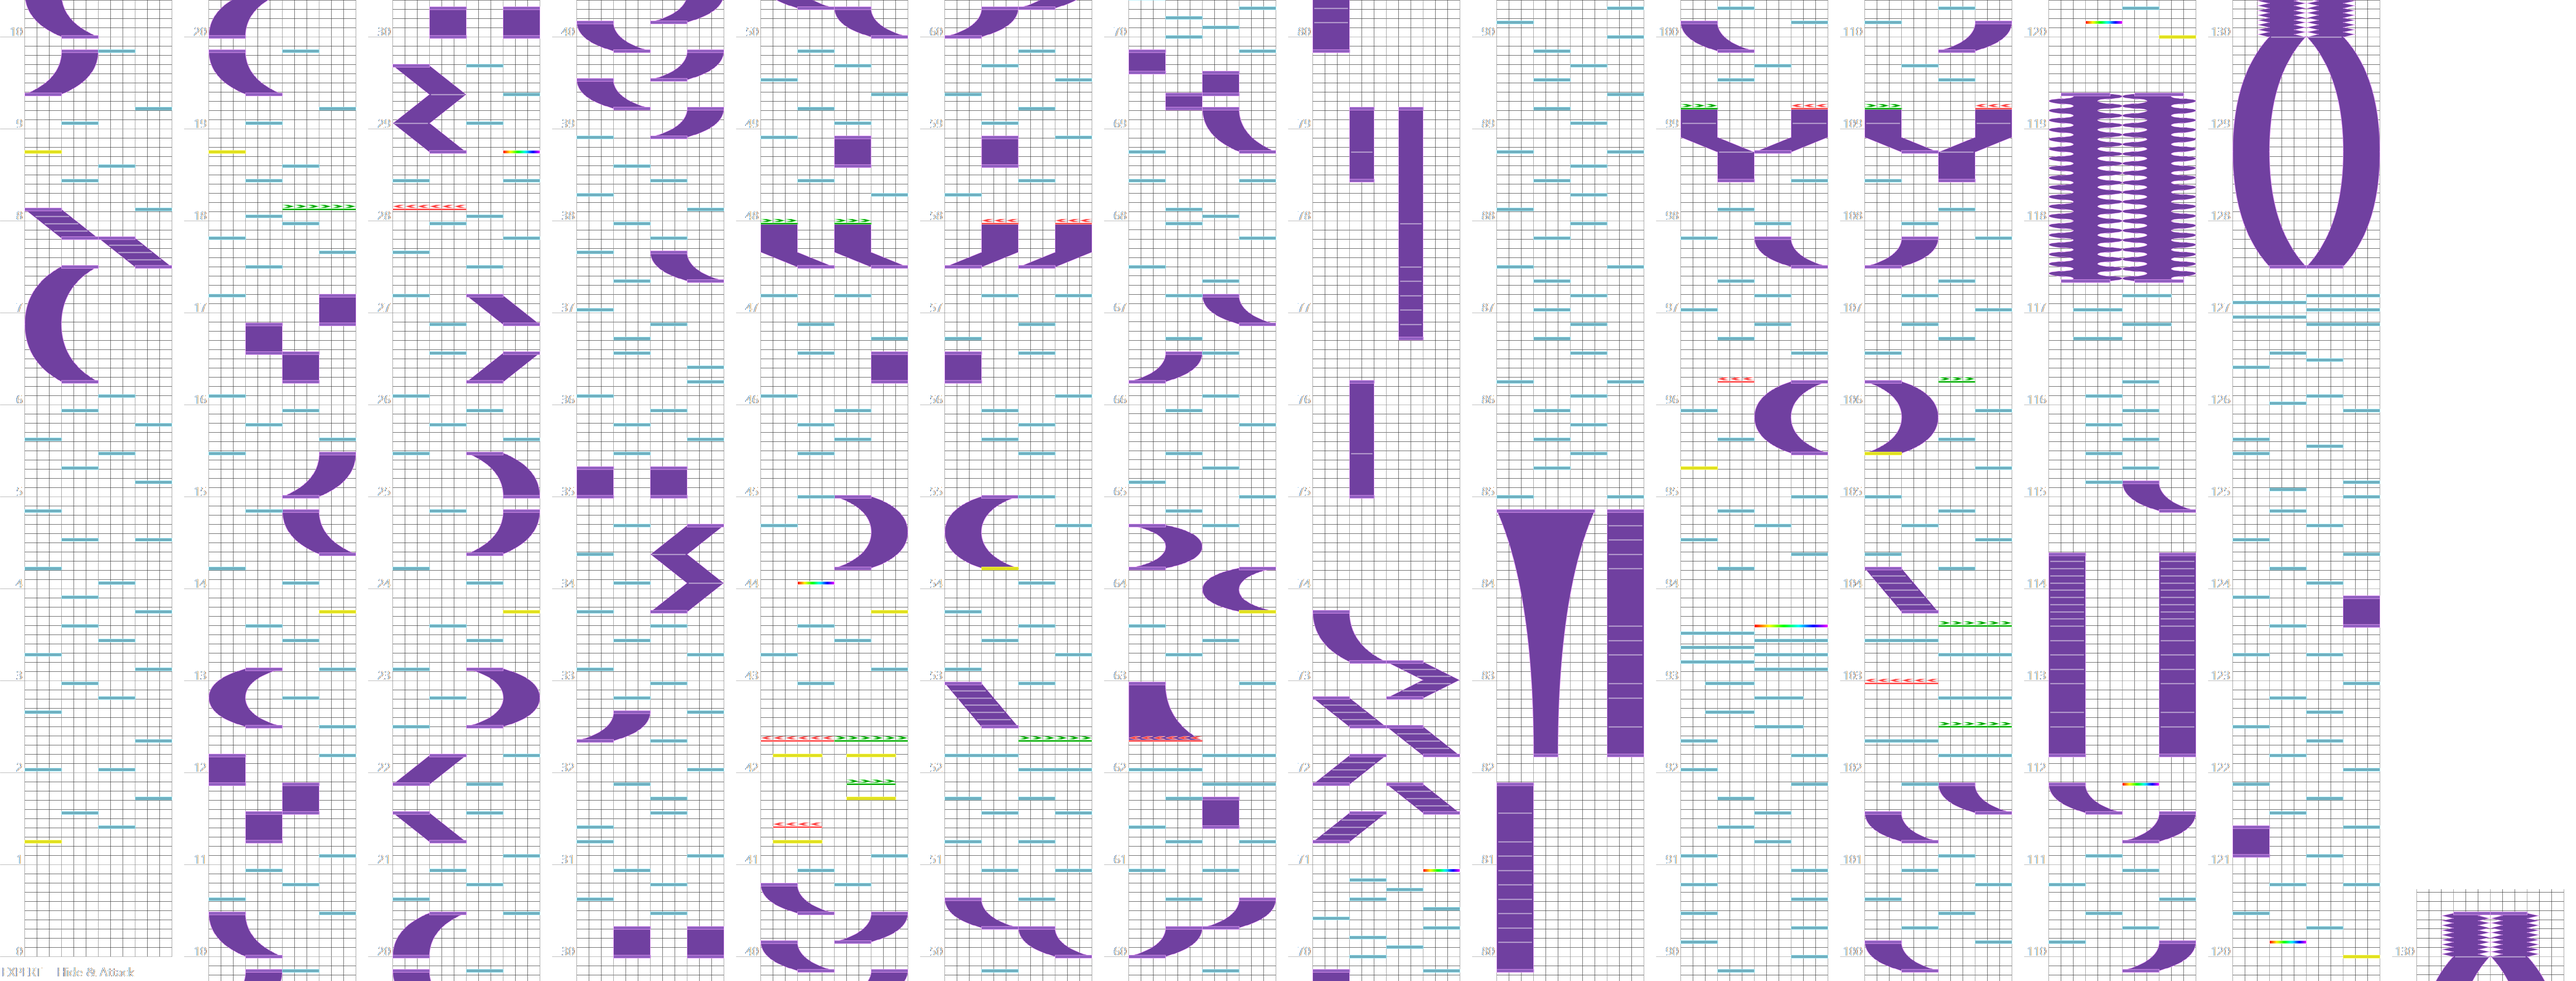
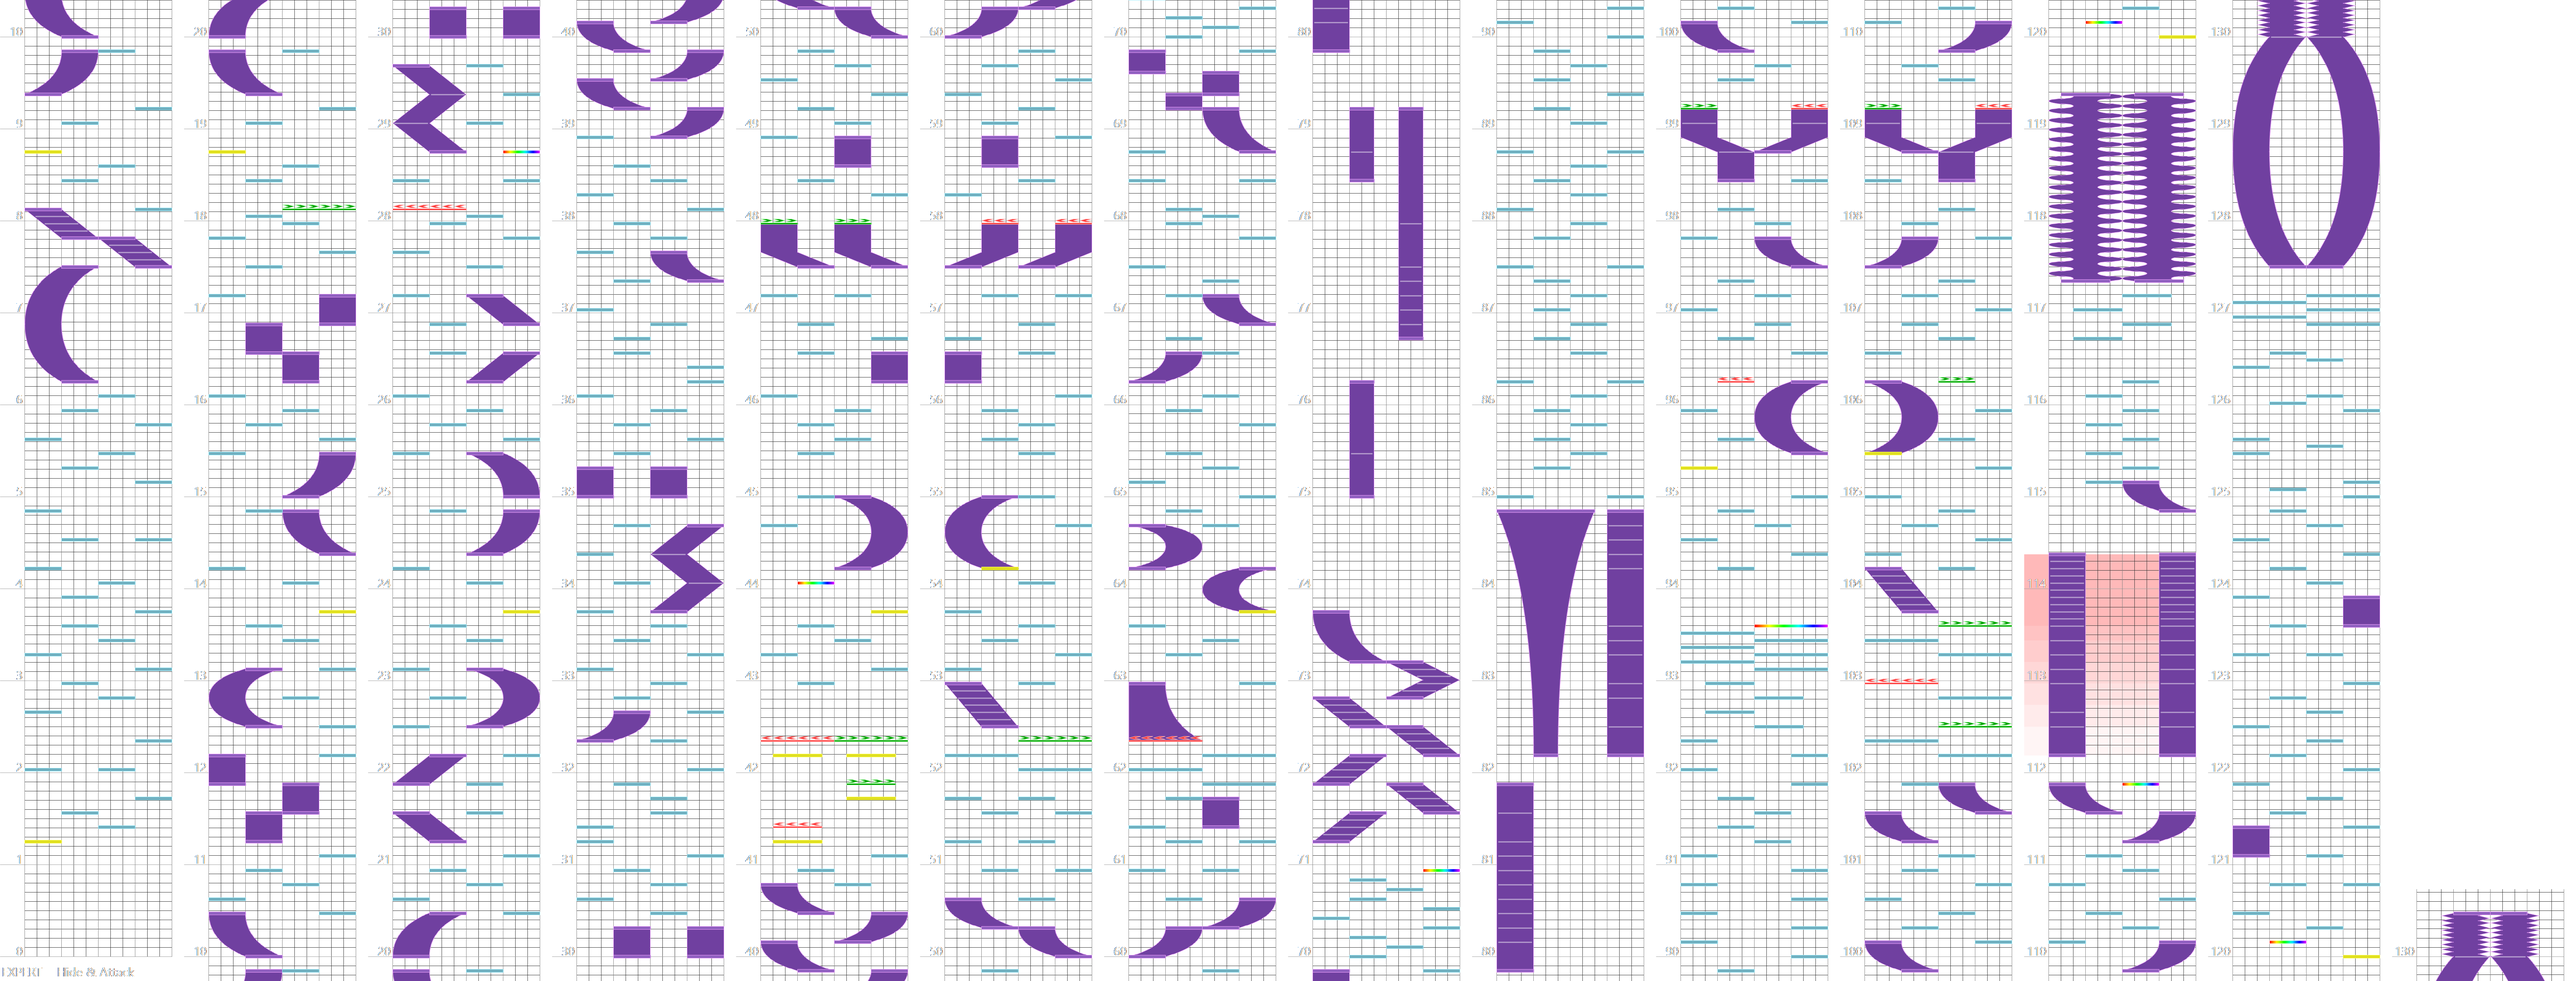
譜面画像のソフラン区間対応

Changed region(s): [[0.7812, 0.5625, 0.8438, 0.7188]]

diff --git a/docs/rhythm_raw.html b/docs/rhythm_raw.html
@@ -768,7 +768,11 @@
 <td data-id="7" data-value="26" class="list rhythm level master"><a class="rhythm" href="images/rhythm_r/104_Happie_5_r.png">26</a></td>
 </tr>
 </table>
+<div class="comment">
 <span class="comment">アーティストのユニット名は略称の場合があります。</span>
+<span class="comment">Hide &amp; AttackのExpert/Masterでスクロール速度の変化(ソフラン)が実装されましたが、速度上昇区間は<span style="color: red; font-weight: bold;">赤背景</span>、速度下降区間は<span style="color: blue; font-weight: bold;">青背景</span>で速度変化が大きいほど鮮やかな色にしています。</span>
+<span class="comment">Hide &amp; Attackで最高170%の速度上昇区間があり、速度下降区間は2024/03/08時点では存在しません。</span>
+</div>
 <script>
 rhythm_display(get_cookie('rhythm_label', 'false') == 'true');
 $('th.sortable').click(function() { sortTable($(this)); });

diff --git a/docs/rhythm_transparent.html b/docs/rhythm_transparent.html
@@ -768,7 +768,11 @@
 <td data-id="7" data-value="26" class="list rhythm level master"><a class="rhythm" href="images/rhythm_t/104_Happie_5_t.png">26</a></td>
 </tr>
 </table>
+<div class="comment">
 <span class="comment">アーティストのユニット名は略称の場合があります。</span>
+<span class="comment">Hide &amp; AttackのExpert/Masterでスクロール速度の変化(ソフラン)が実装されましたが、速度上昇区間は<span style="color: red; font-weight: bold;">赤背景</span>、速度下降区間は<span style="color: blue; font-weight: bold;">青背景</span>で速度変化が大きいほど鮮やかな色にしています。</span>
+<span class="comment">Hide &amp; Attackで最高170%の速度上昇区間があり、速度下降区間は2024/03/08時点では存在しません。</span>
+</div>
 <script>
 rhythm_display(get_cookie('rhythm_label', 'false') == 'true');
 $('th.sortable').click(function() { sortTable($(this)); });

diff --git a/docs/rhythm.html b/docs/rhythm.html
@@ -768,7 +768,11 @@
 <td data-id="7" data-value="26" class="list rhythm level master"><a class="rhythm" href="images/rhythm/104_Happie_5.png">26</a></td>
 </tr>
 </table>
+<div class="comment">
 <span class="comment">アーティストのユニット名は略称の場合があります。</span>
+<span class="comment">Hide &amp; AttackのExpert/Masterでスクロール速度の変化(ソフラン)が実装されましたが、速度上昇区間は<span style="color: red; font-weight: bold;">赤背景</span>、速度下降区間は<span style="color: blue; font-weight: bold;">青背景</span>で速度変化が大きいほど鮮やかな色にしています。</span>
+<span class="comment">Hide &amp; Attackで最高170%の速度上昇区間があり、速度下降区間は2024/03/08時点では存在しません。</span>
+</div>
 <script>
 rhythm_display(get_cookie('rhythm_label', 'false') == 'true');
 $('th.sortable').click(function() { sortTable($(this)); });

diff --git a/docs/prism.css b/docs/prism.css
@@ -143,7 +143,8 @@ p {
 
 tr.invisible-row		{ display: none;	}
 
-span.comment			{ font-size: 14px; }
+span.comment			{ font-size: 14px; display: inline-block; }
+div.comment				{ width: 780px; }
 
 /* Pアイドル */
 table.list.pidol 				{ width: 1000px; }
